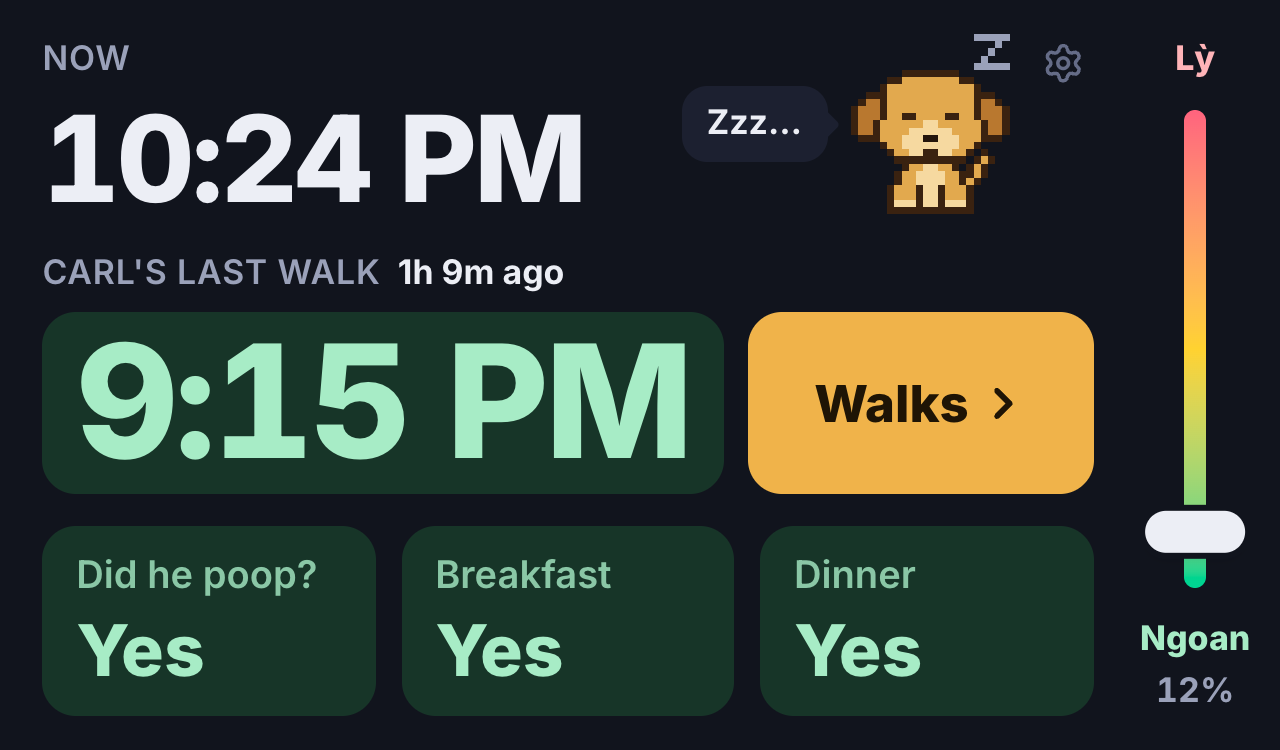
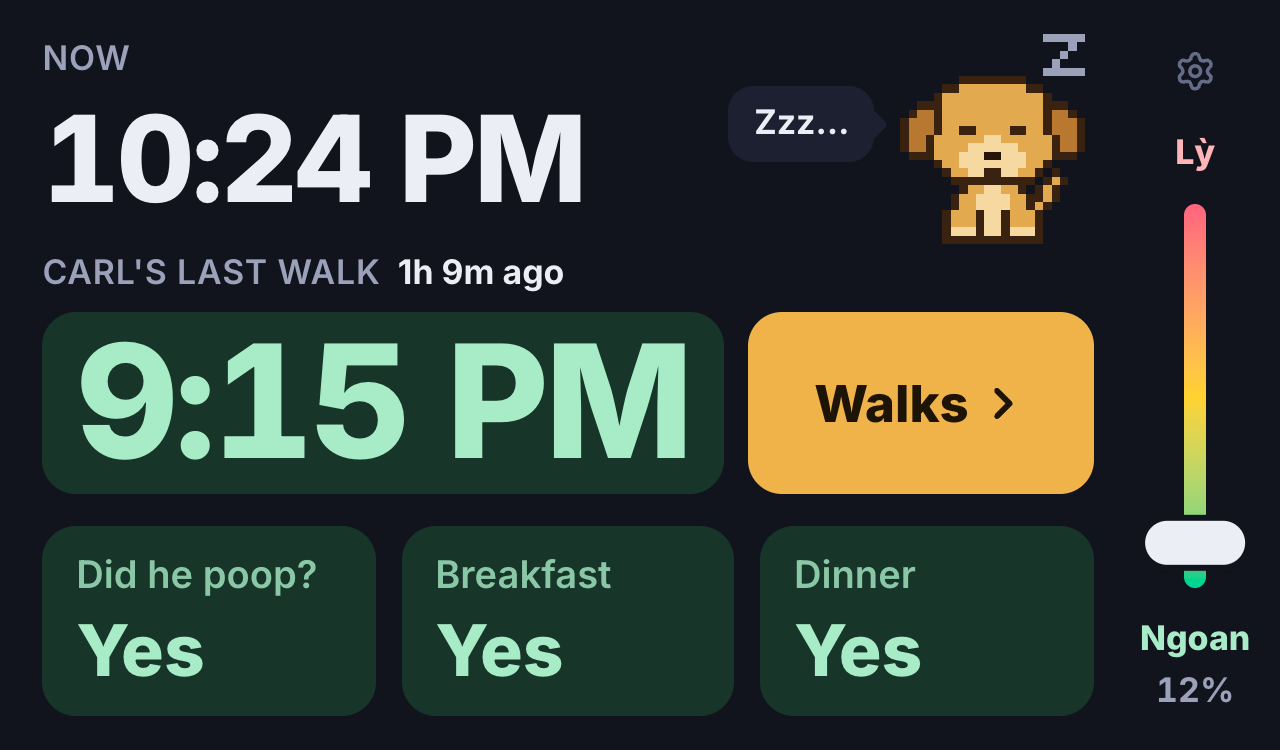
bigger dog, drag to scroll on the sub-screens
The dog grows into the empty space beside the last-walk label, and settings
moves to the top of the lỳ column to make room. Chromium on the Pi gets the
touchscreen as a mouse under Xwayland, so dragging never scrolled; the
sub-screens now scroll on drag, and a drag doesn't press the button it started on.

diff --git a/dibo-tracker/src/hooks/useDragScroll.ts b/dibo-tracker/src/hooks/useDragScroll.ts
@@ -1,0 +1,80 @@
+import { useEffect, type RefObject } from "react";
+
+/**
+ * Lets a finger drag scroll an element. On the Pi, Chromium runs under Xwayland and
+ * gets the touchscreen as a mouse, so the browser's own touch scrolling never kicks in.
+ */
+export function useDragScroll(ref: RefObject<HTMLElement | null>) {
+  useEffect(() => {
+    const el = ref.current;
+    if (!el) return;
+
+    let pressed = false;
+    let dragging = false;
+    let startY = 0;
+    let startScroll = 0;
+    let lastY = 0;
+    let lastTime = 0;
+    let velocity = 0; // px per ms, positive when scrolling down
+    let frame = 0;
+
+    const onDown = (e: PointerEvent) => {
+      // Real touch input already scrolls natively.
+      if (e.pointerType !== "mouse" || e.button !== 0) return;
+      cancelAnimationFrame(frame);
+      pressed = true;
+      dragging = false;
+      startY = lastY = e.clientY;
+      startScroll = el.scrollTop;
+      lastTime = e.timeStamp;
+      velocity = 0;
+    };
+
+    const onMove = (e: PointerEvent) => {
+      if (!pressed) return;
+      // A little slack so a tap with a wobbly finger still counts as a tap.
+      if (!dragging && Math.abs(e.clientY - startY) < 8) return;
+      dragging = true;
+      el.scrollTop = startScroll - (e.clientY - startY);
+      const dt = e.timeStamp - lastTime;
+      if (dt > 0) velocity = (lastY - e.clientY) / dt;
+      lastY = e.clientY;
+      lastTime = e.timeStamp;
+    };
+
+    const onUp = (e: PointerEvent) => {
+      if (!pressed) return;
+      pressed = false;
+      // Only glide if the finger was still moving when it lifted.
+      if (!dragging || e.timeStamp - lastTime > 80) return;
+      let step = velocity * 16;
+      const glide = () => {
+        if (Math.abs(step) < 0.5) return;
+        el.scrollTop += step;
+        step *= 0.92;
+        frame = requestAnimationFrame(glide);
+      };
+      glide();
+    };
+
+    // The click that ends a drag shouldn't also press whatever button the drag started on.
+    const onClick = (e: MouseEvent) => {
+      if (!dragging) return;
+      dragging = false;
+      e.stopPropagation();
+      e.preventDefault();
+    };
+
+    el.addEventListener("pointerdown", onDown);
+    window.addEventListener("pointermove", onMove);
+    window.addEventListener("pointerup", onUp);
+    el.addEventListener("click", onClick, true);
+    return () => {
+      cancelAnimationFrame(frame);
+      el.removeEventListener("pointerdown", onDown);
+      window.removeEventListener("pointermove", onMove);
+      window.removeEventListener("pointerup", onUp);
+      el.removeEventListener("click", onClick, true);
+    };
+  }, [ref]);
+}

diff --git a/dibo-tracker/src/components/Dashboard.tsx b/dibo-tracker/src/components/Dashboard.tsx
@@ -86,22 +86,14 @@ export function Dashboard({
             </div>
           </div>
 
-          <div className="-mr-2 -mt-2 flex items-start">
-            <button onClick={onOpenWalks} className="flex items-center gap-2 pt-2" aria-label={`${profile.name}: ${DOG_SAYS[mood]}`}>
-              <span className="relative whitespace-nowrap rounded-xl bg-surface px-3 py-1.5 text-base font-bold text-ink max-[520px]:hidden">
-                {DOG_SAYS[mood]}
-                <span className="absolute -right-1 top-1/2 size-2.5 -translate-y-1/2 rotate-45 rounded-[2px] bg-surface" />
-              </span>
-              <PixelDog mood={mood} className="h-[clamp(4.25rem,24vh,11rem)]" />
-            </button>
-            <button
-              onClick={onOpenSettings}
-              aria-label="Settings"
-              className="inline-flex size-11 items-center justify-center rounded-full text-faint active:bg-surface"
-            >
-              <Settings className="size-5" />
-            </button>
-          </div>
+          <button onClick={onOpenWalks} className="flex items-center gap-2" aria-label={`${profile.name}: ${DOG_SAYS[mood]}`}>
+            <span className="relative whitespace-nowrap rounded-xl bg-surface px-3 py-1.5 text-base font-bold text-ink max-[520px]:hidden">
+              {DOG_SAYS[mood]}
+              <span className="absolute -right-1 top-1/2 size-2.5 -translate-y-1/2 rotate-45 rounded-[2px] bg-surface" />
+            </span>
+            {/* Hangs into the empty space beside the "last walk" label without pushing it down. */}
+            <PixelDog mood={mood} className="-mb-[4vh] h-[clamp(4.25rem,28vh,13rem)]" />
+          </button>
         </div>
 
         <div>
@@ -132,7 +124,16 @@ export function Dashboard({
         </div>
       </main>
 
-      <LyMeter level={lyLevel} onChange={onLyChange} />
+      <div className="flex w-14 shrink-0 flex-col items-center">
+        <button
+          onClick={onOpenSettings}
+          aria-label="Settings"
+          className="-mt-1 mb-1 inline-flex size-11 shrink-0 items-center justify-center rounded-full text-faint active:bg-surface"
+        >
+          <Settings className="size-5" />
+        </button>
+        <LyMeter level={lyLevel} onChange={onLyChange} />
+      </div>
     </div>
   );
 }

diff --git a/dibo-tracker/src/components/Screen.tsx b/dibo-tracker/src/components/Screen.tsx
@@ -1,5 +1,6 @@
-import type { ReactNode } from "react";
+import { useRef, type ReactNode } from "react";
 import { X } from "lucide-react";
+import { useDragScroll } from "../hooks/useDragScroll";
 
 type ScreenProps = {
   title: ReactNode;
@@ -9,8 +10,11 @@ type ScreenProps = {
 
 /** Full-screen sub-page with a title and a close button. */
 export function Screen({ title, onClose, children }: ScreenProps) {
+  const scrollRef = useRef<HTMLDivElement>(null);
+  useDragScroll(scrollRef);
+
   return (
-    <div className="flex h-dvh flex-col overflow-y-auto px-5 pb-4 pt-3">
+    <div ref={scrollRef} className="flex h-dvh flex-col overflow-y-auto px-5 pb-4 pt-3">
       <header className="mb-3 flex items-center justify-between gap-4">
         <h1 className="min-w-0 truncate text-2xl font-extrabold tracking-tight">{title}</h1>
         <button

diff --git a/dibo-tracker/src/components/LyMeter.tsx b/dibo-tracker/src/components/LyMeter.tsx
@@ -17,7 +17,7 @@ export function LyMeter({ level, onChange }: LyMeterProps) {
   };
 
   return (
-    <aside className="flex w-14 shrink-0 flex-col items-center text-base font-extrabold">
+    <aside className="flex min-h-0 w-full flex-1 flex-col items-center text-base font-extrabold">
       <div className="text-on-alert">Lỳ</div>
       {/* The whole column is the touch target, not just the thin bar. */}
       <div
